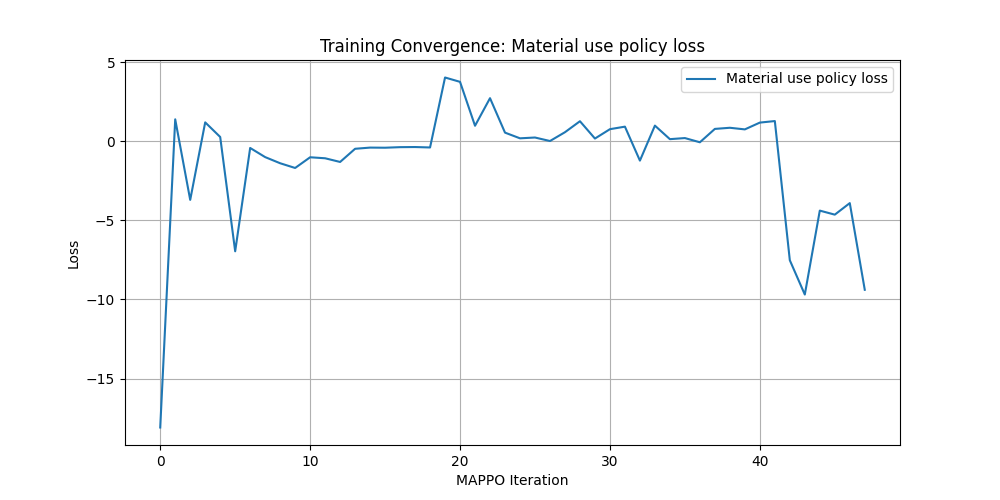
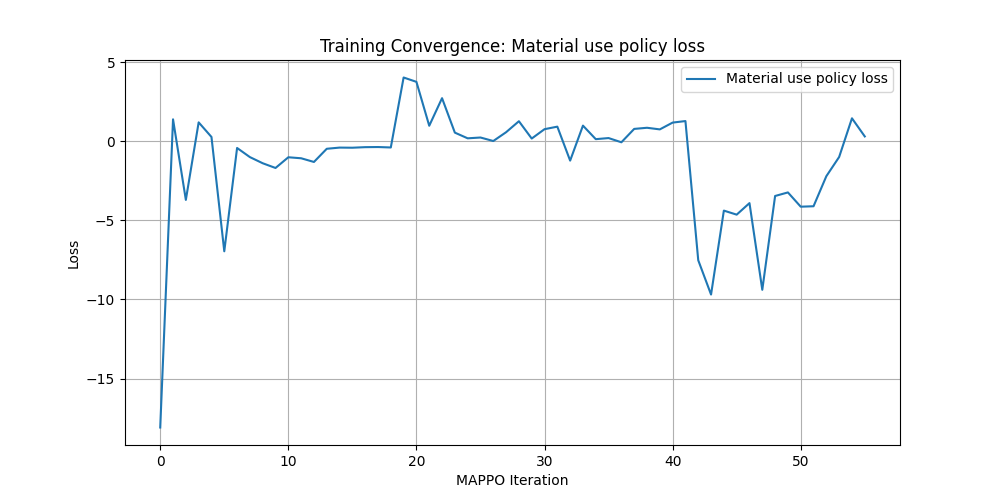
More complete loss visualization

diff --git a/results_analysis.py b/results_analysis.py
@@ -62,7 +62,7 @@ def display_losses(model_path: str, result_path: str, last: int):
     outsourcing_losses: list[float] = []
     scheduling_losses: list[float] = []
     material_losses: list[float] = []
-    for model_id in range(1, last):
+    for model_id in range(1, last + 1):
         with open(model_path+'/validation_'+str(model_id)+'.pkl', 'rb') as file:
             l: MAPPO_Losses = pickle.load(file)
             value_losses.extend(l.value_loss)
